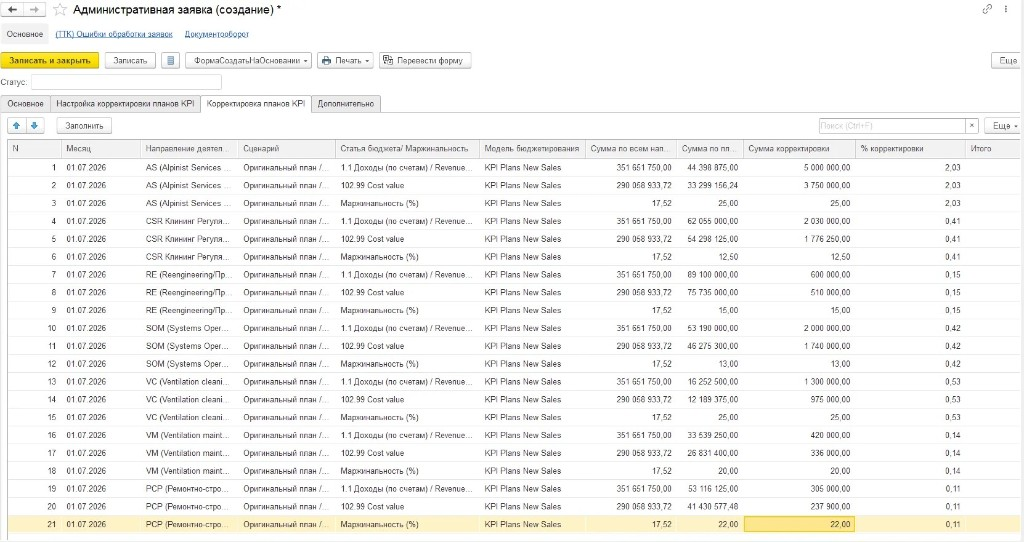
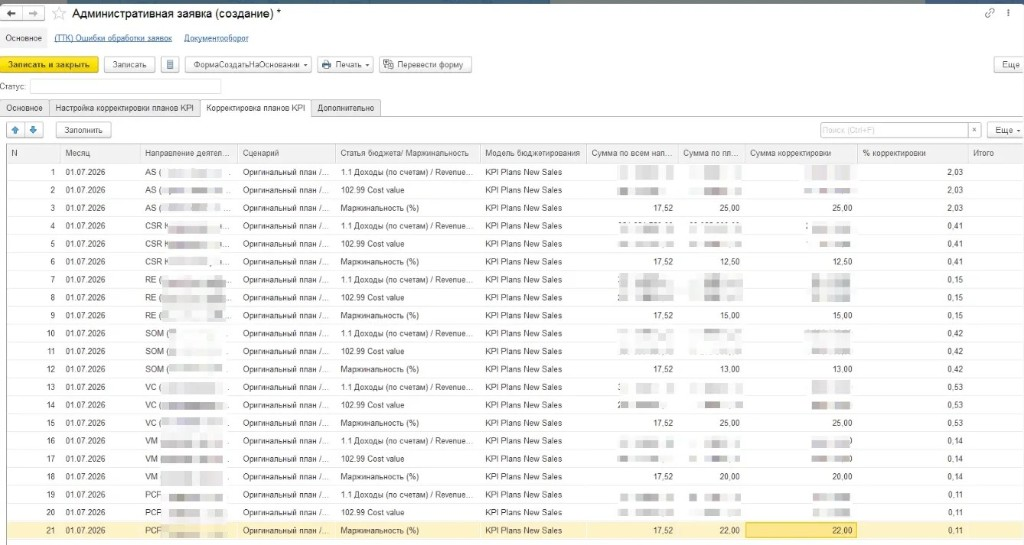
Replace KPI plan correction screenshots with a single updated image.

Changed region(s): [[0.0, 0.0, 1.0, 1.0], [0.9688, 0.0886, 1.0, 0.1476]]

diff --git a/index.html b/index.html
@@ -8,7 +8,7 @@
   <link rel="preconnect" href="https://fonts.googleapis.com" />
   <link rel="preconnect" href="https://fonts.gstatic.com" crossorigin />
   <link href="https://fonts.googleapis.com/css2?family=Onest:wght@400;500;600;700;800&display=swap" rel="stylesheet" />
-  <link rel="stylesheet" href="assets/css/styles.css?v=51" />
+  <link rel="stylesheet" href="assets/css/styles.css?v=52" />
   <link rel="icon" href="assets/images/logo-intelav.svg" type="image/svg+xml" />
 </head>
 <body>
@@ -779,10 +779,6 @@
               <div class="blog-body">
                 <p>Когда бизнес корректирует планы, важно не просто «переписать цифры», а понять, как это влияет на результат. Раньше менеджер мог менять доход и себестоимость, а картину прибыльности собирать уже потом — в отчётах, таблицах, переписке.</p>
                 <p>Мы превратили заявку «Корректировка планов KPI» в инструмент управленческого решения. Система помогает выбрать корректный период, подтягивает нужные параметры плана и при изменении сумм сразу пересчитывает итоги. Отдельной строкой показывается маржинальность — сколько остаётся после расходов относительно выручки. Видно не только «сколько добавили к плану», но и «какой станет маржа».</p>
-                <figure class="blog-figure">
-                  <img src="assets/images/blog/kpi-plan-correction-setup.jpg" alt="Административная заявка: вкладка настройки корректировки планов KPI с параметрами периода и отборами" width="1200" height="675" loading="lazy" />
-                  <figcaption>Настройка корректировки: модель бюджетирования, сценарий, период и аналитические отборы</figcaption>
-                </figure>
                 <figure class="blog-figure">
                   <img src="assets/images/blog/kpi-plan-correction.jpg" alt="Административная заявка: таблица корректировки планов KPI с доходами, себестоимостью и маржинальностью" width="1200" height="675" loading="lazy" />
                   <figcaption>Корректировка планов KPI: доходы, себестоимость и маржинальность по направлениям в одной форме</figcaption>
